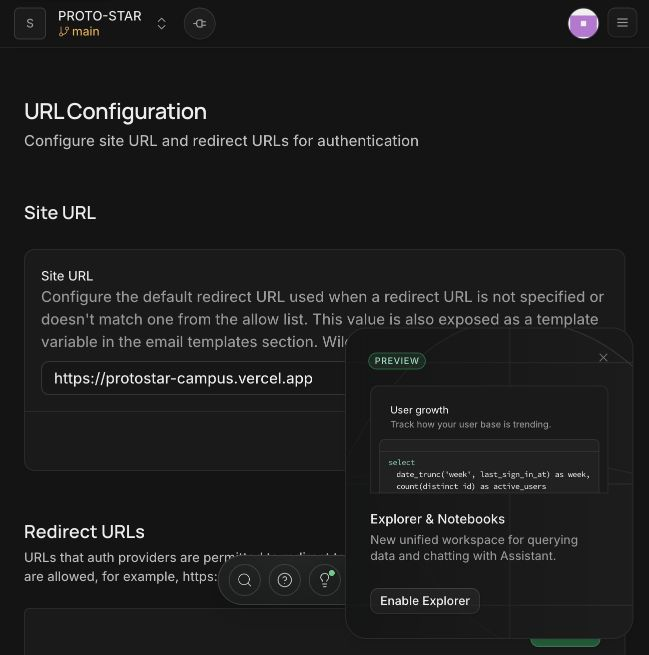
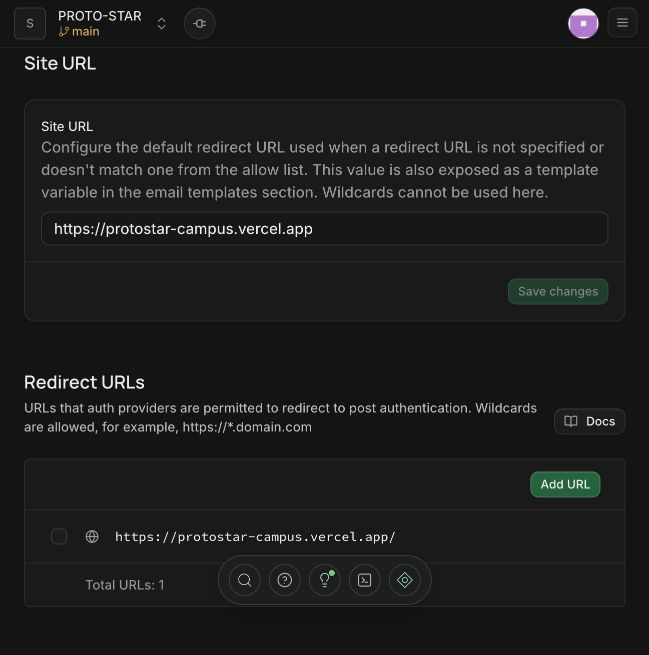
Record localhost fallback verification

diff --git a/docs/DEPLOYMENT.md b/docs/DEPLOYMENT.md
@@ -23,7 +23,7 @@ The deployment is public and the synthetic preview works without an account. Exi
 
 Both values persisted after dashboard reload. The frontend already requests this exact production root from the deployed origin; no runtime-code change or Vercel redeployment was required. A production signup regression test asserts the requested destination excludes localhost and the SPA routing hash. All 50 tests passed.
 
-A deliberately invalid confirmation token produced HTTP 303 with a Location on the production domain and the expected `otp_expired` error. This verifies the live redirect destination without creating/changing an account; it is not a successful real-user email-confirmation test. Previously issued emails can contain their original redirect target: request a fresh confirmation email if an old link still points to localhost. Production SMTP/email delivery remains a separate configuration concern.
+A deliberately invalid confirmation token produced HTTP 303 with a Location on the production domain and the expected `otp_expired` error. A second invalid-token check requesting the old localhost destination also fell back to production. These checks verify the live redirect destination without creating/changing an account; it is not a successful real-user email-confirmation test. Previously issued emails can contain their original redirect target: request a fresh confirmation email if an old link still points to localhost. Production SMTP/email delivery remains a separate configuration concern.
 
 Saved settings evidence: `docs/review/auth-production-redirect.png`. No wildcard redirect, account permission, password policy or email-confirmation requirement was added or weakened.
 
